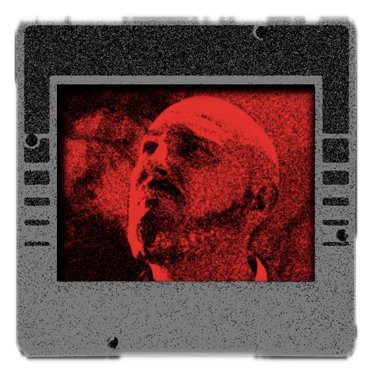
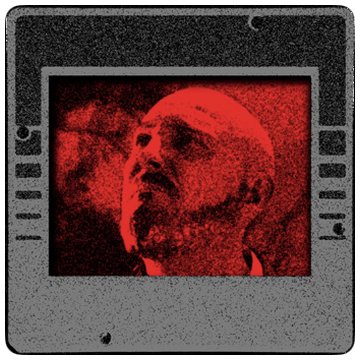
Update achievement artwork — Ending v113 & Collectibles v36

diff --git a/collectibles/README.md b/collectibles/README.md
@@ -1,4 +1,12 @@
-# Silent Hill: Townfall — Collectibles & Secrets Tracker v35
+# Silent Hill: Townfall — Collectibles & Secrets Tracker v36
+
+## v36: Fresh achievement artwork (current release)
+
+- Replaced the four `assets/achievements/*.png` images with clean, consistently framed extractions from the original PlayStation screenshots.
+- The `index.html` source is byte-for-byte unchanged from approved v35; no checklist, Gallery, JavaScript, CSS, profile, animation, localStorage, or path changes.
+- To update an existing v35 GitHub Pages deployment, replace the four PNGs under `collectibles/assets/achievements/` and optionally this README. Keep every other folder and asset in place.
+- Browsers may temporarily display cached older achievement images until revalidated or refreshed.
+- The companion Ending & Progress Tracker artwork release is v113 and is deployed separately in the repository root.
 
 ## Preview locally
 
